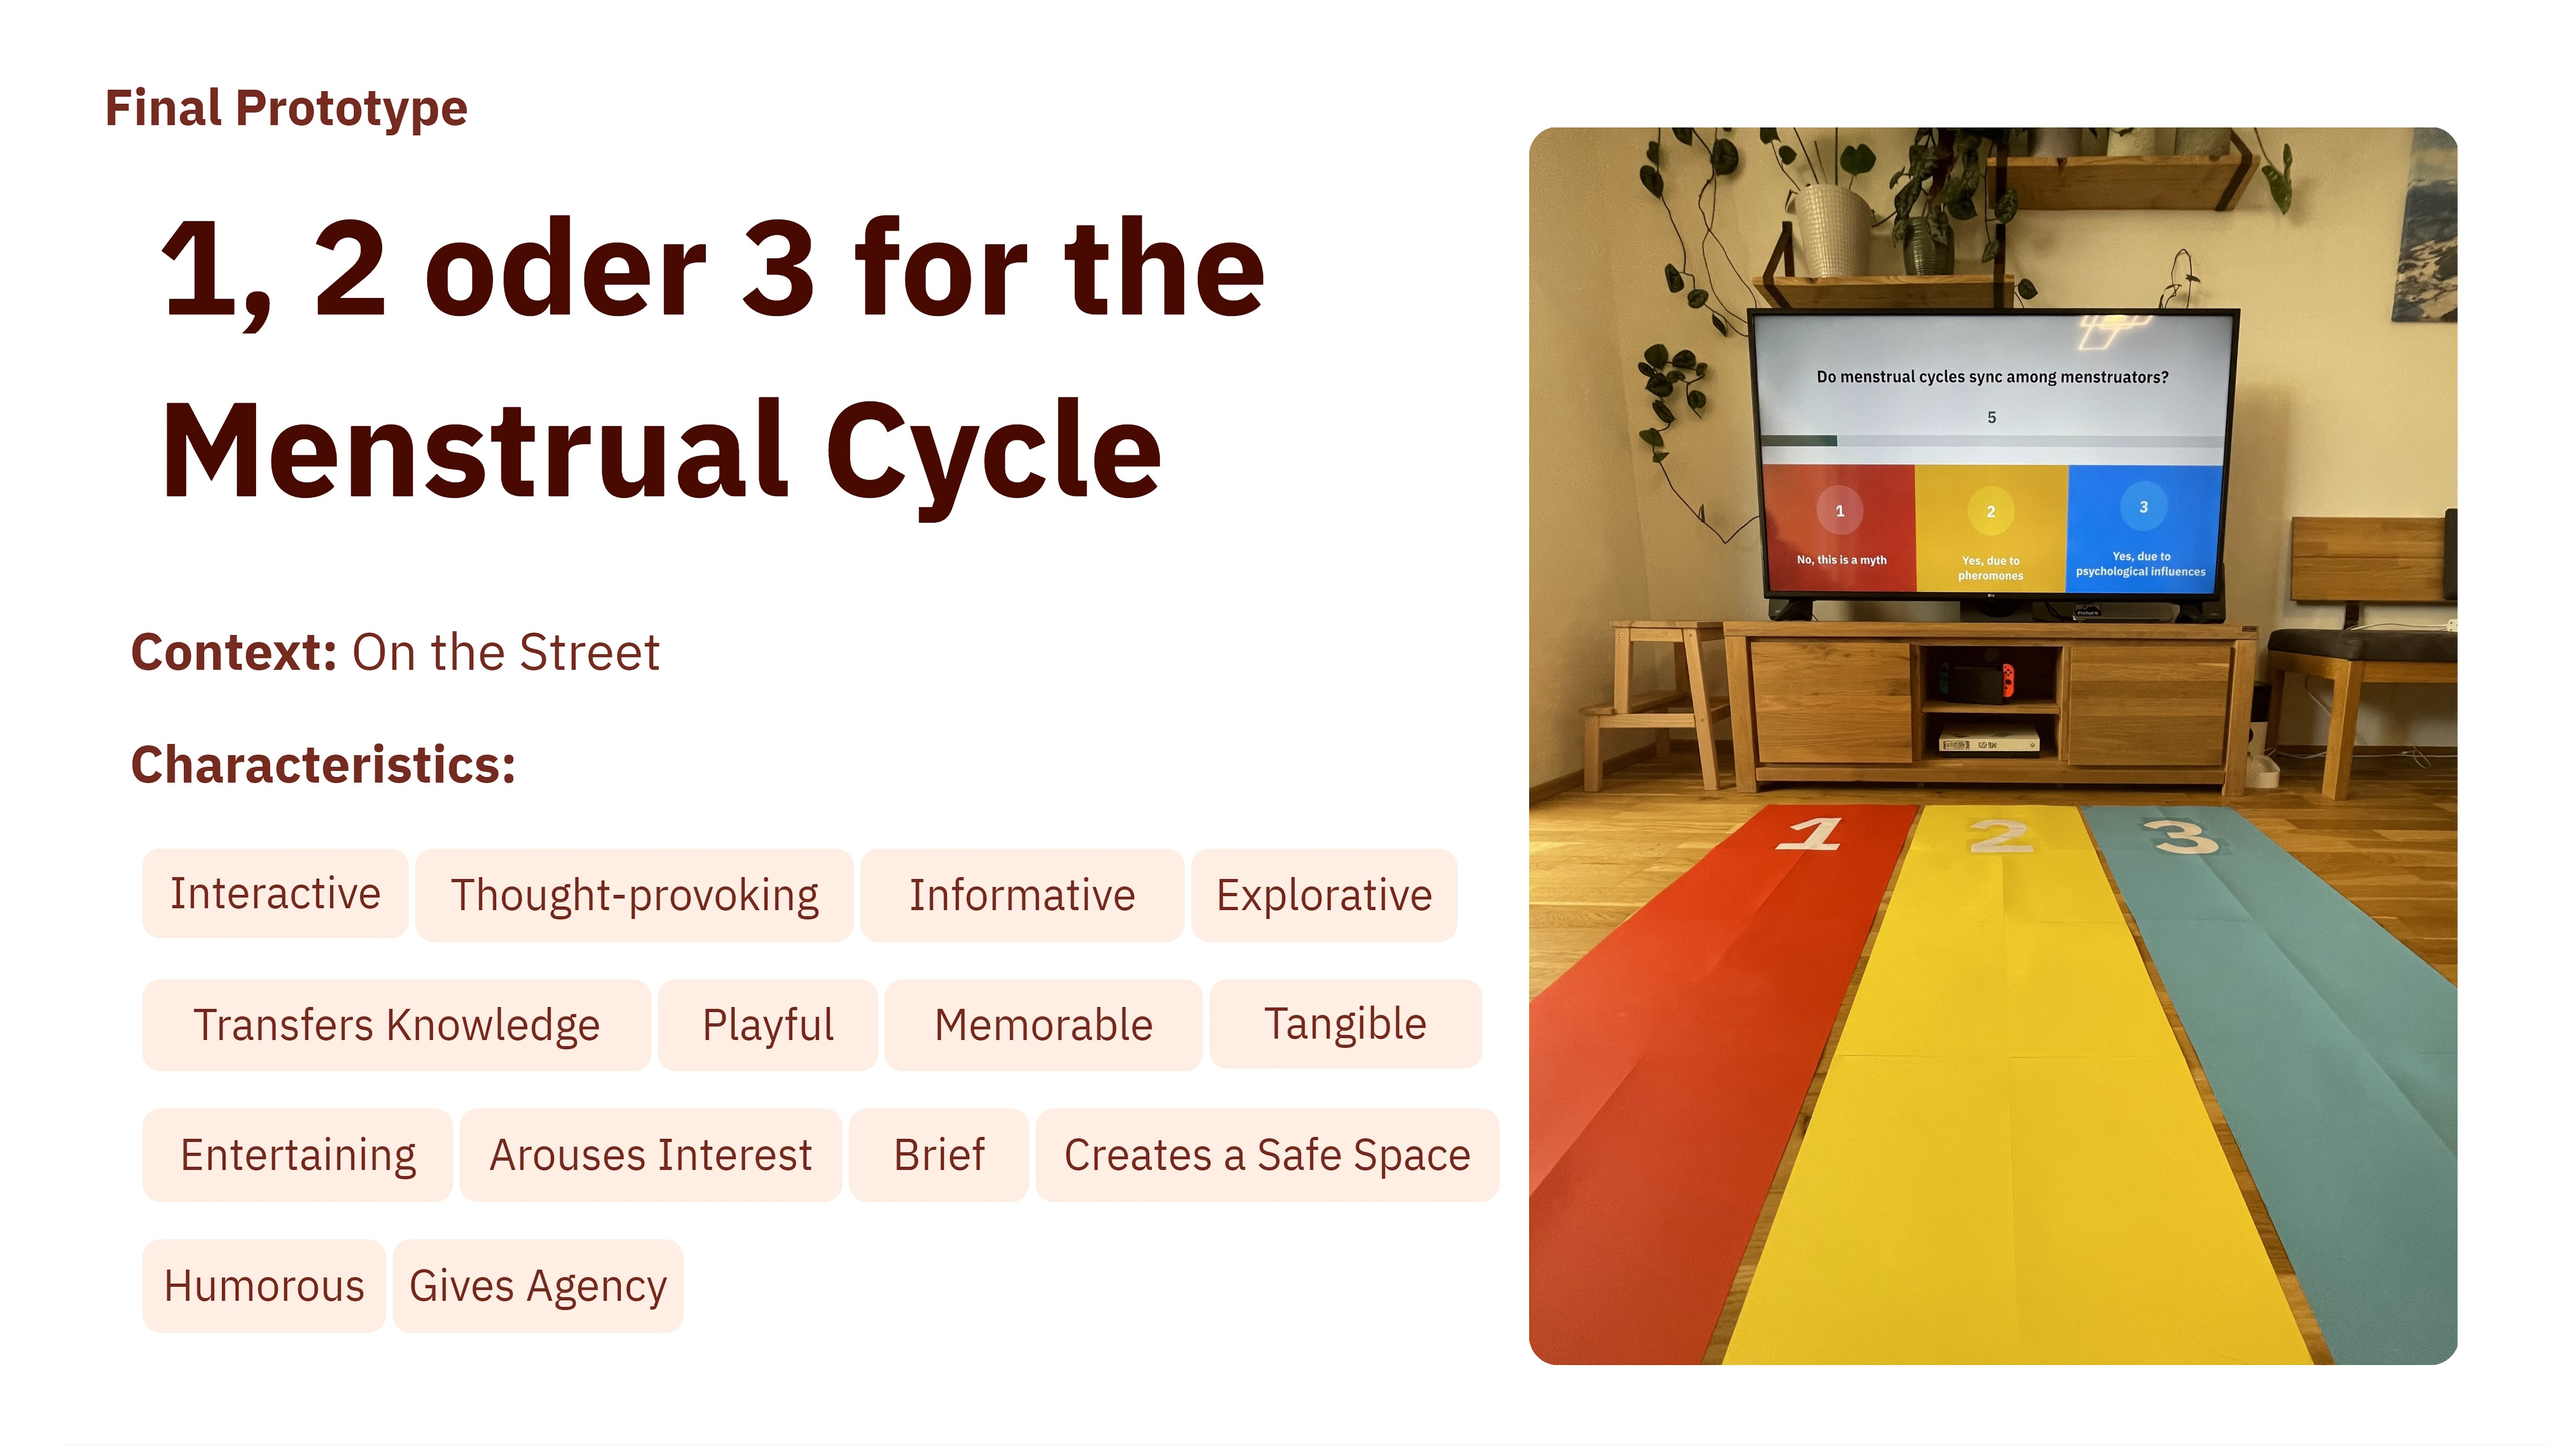
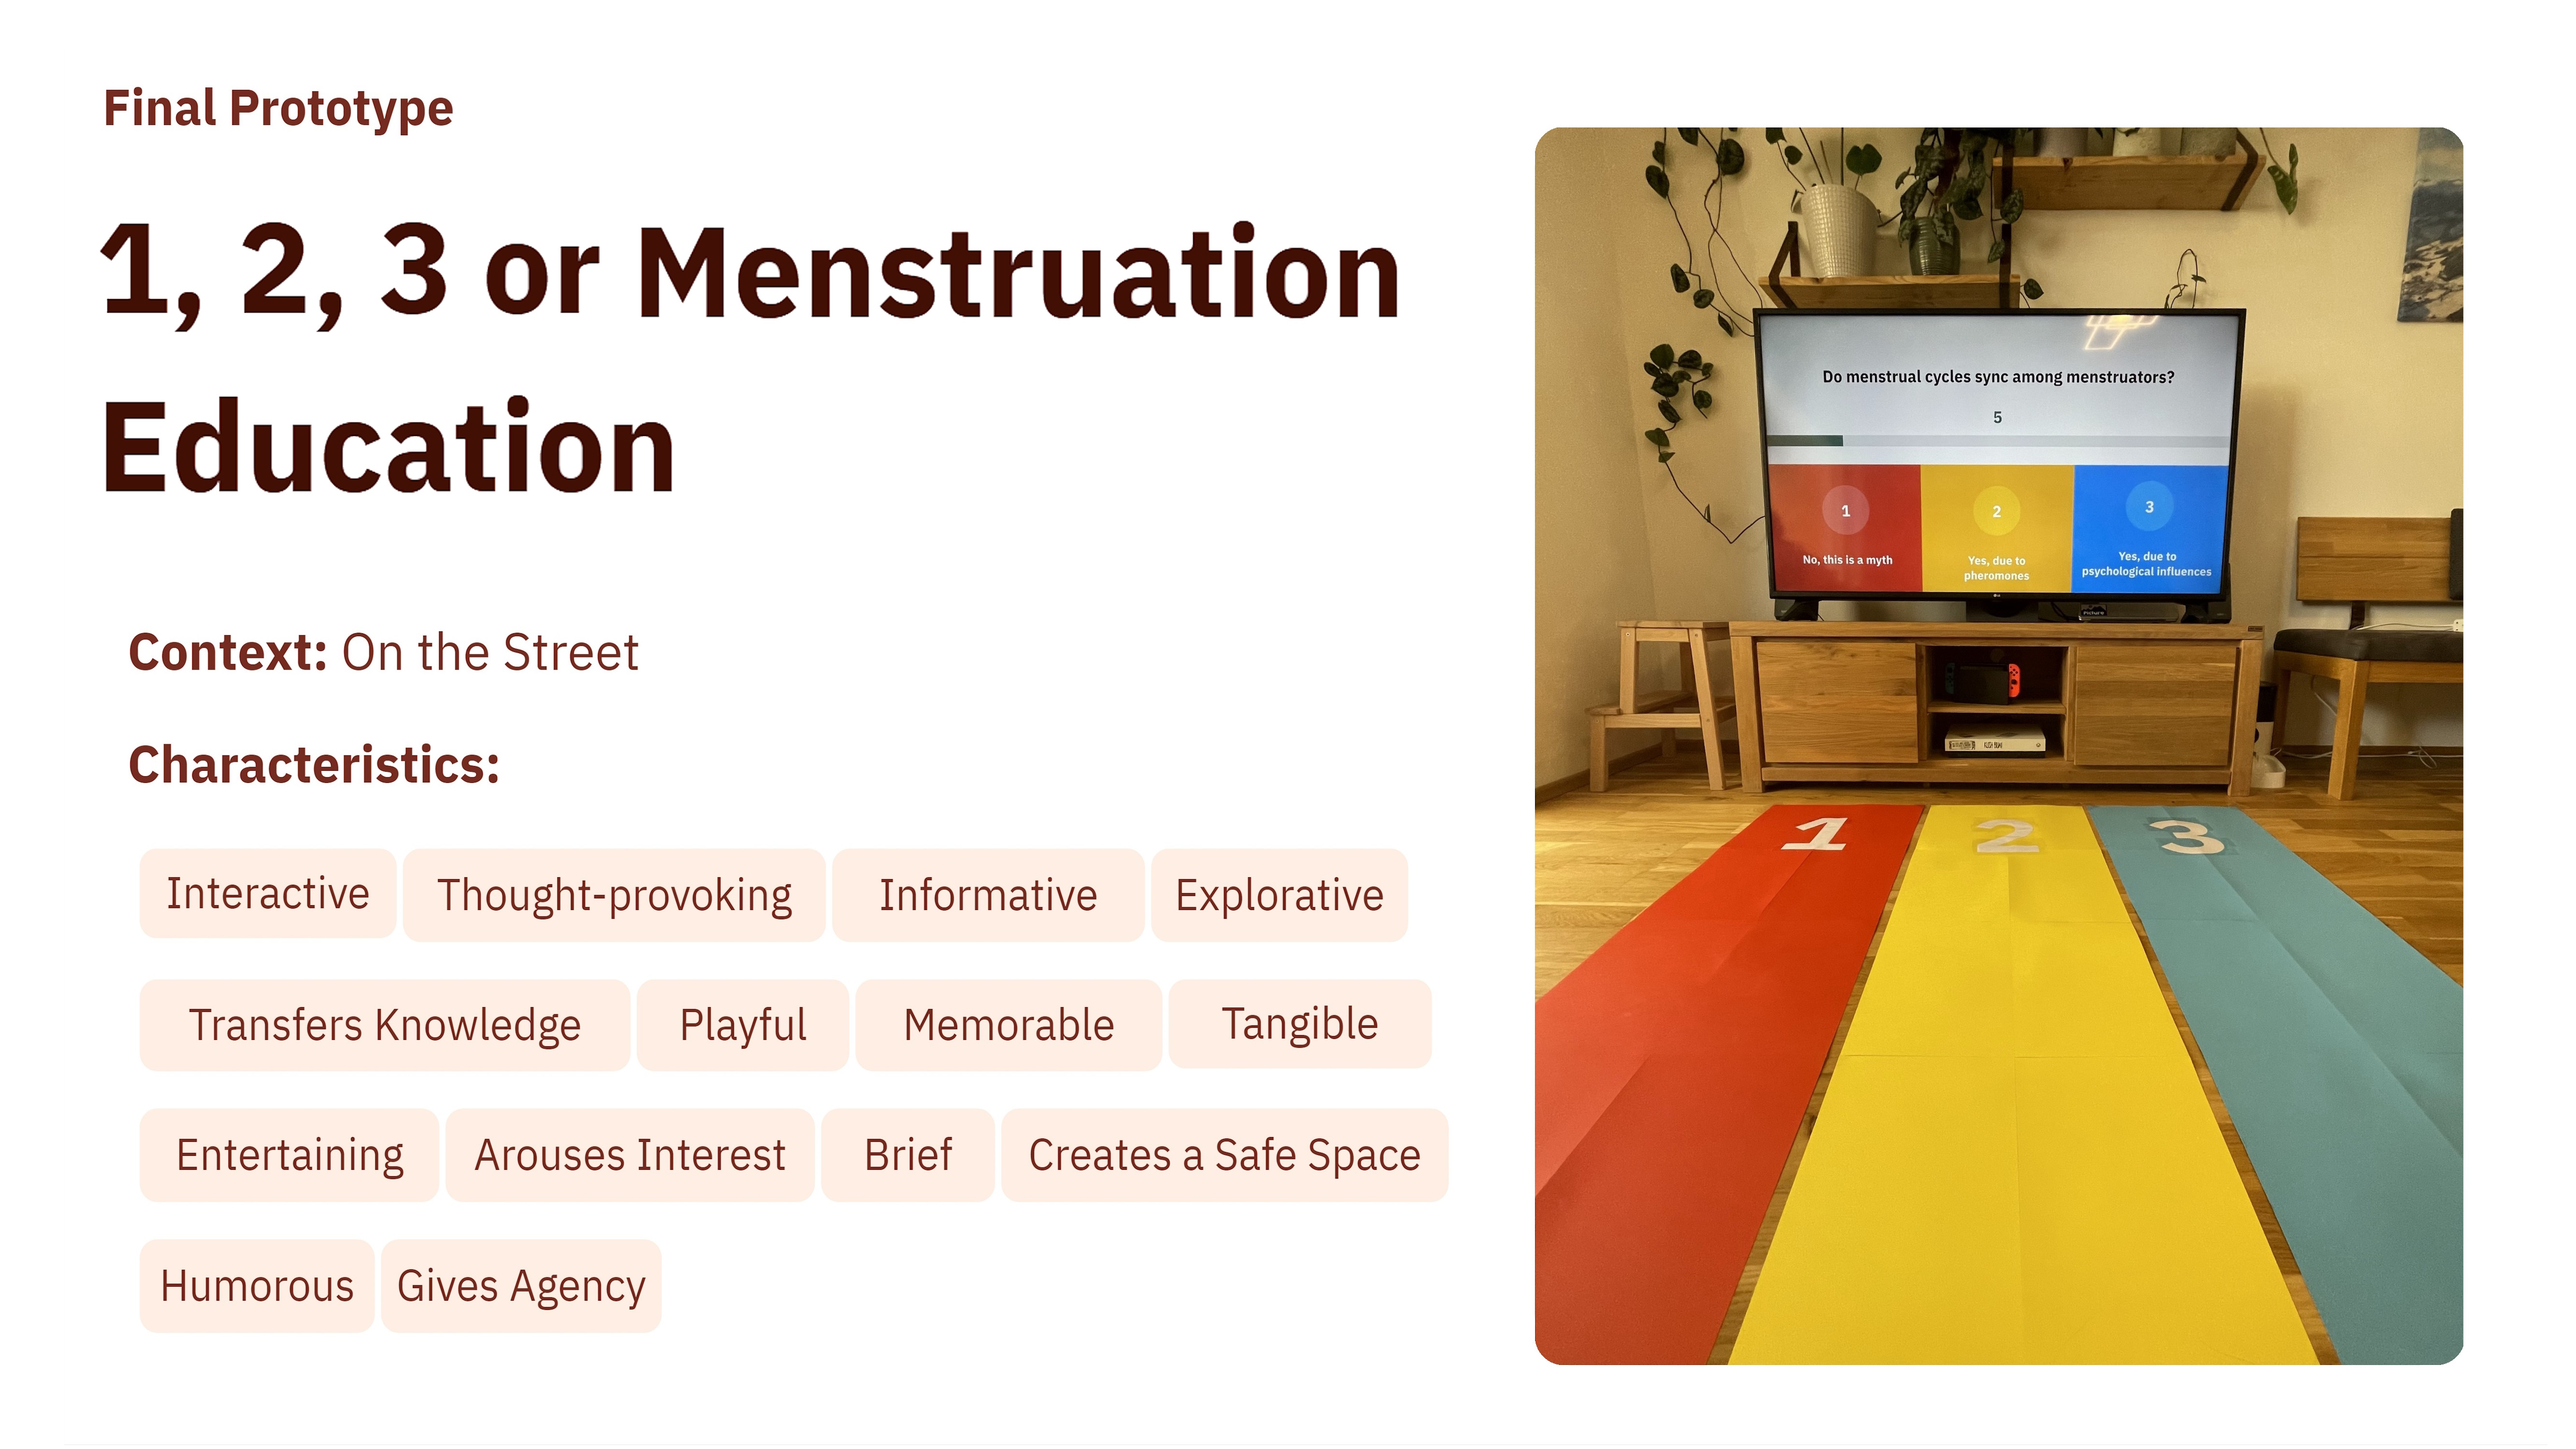
fixed 1 2 3 or menstruation education to prevent copyright issues

diff --git a/1_2_3_or_menstruation_education.html b/1_2_3_or_menstruation_education.html
@@ -34,7 +34,7 @@
   </header>
   <main>
     <div class="page-title-wrapper">
-      <h2 class="page-title">1, 2 oder 3 for Menstruation Education</h2>
+      <h2 class="page-title">1, 2, 3 or Menstruation Education</h2>
     </div>
     <section id="intro-section" class="section-content maxwidth-container">
       <img class="intro-image transition" src="./assets/project_2.png" alt="Project image">
@@ -155,7 +155,7 @@
       <div class="section-image-container">
         <img class="section-image rounded-border" src="./123_assets/lo-fi-prototypes-alt.png" alt="Sketches and lo-fi prototypes" style="margin-bottom: 1.8em;">
       </div>
-      <p class="section-text">In the end, we decided to build a high-fidelity prototype mainly based on "1, 2 oder 3 for Menstruation Education" because it seemed to best fit our design brief and design implications from our research. It also avoided issues found in other low-fidelity prototypes. For example, the menstruation monster was problematic because associating menstruation with something negative, such as monsters, could reinforce the taboo around menstruation, and the menstruation games dispenser likely would have felt discouragingly complicated for users.</p>
+      <p class="section-text">In the end, we decided to build a high-fidelity prototype mainly based on "1, 2, 3 or Menstruation Education" because it seemed to best fit our design brief and design implications from our research. It also avoided issues found in other low-fidelity prototypes. For example, the menstruation monster was problematic because associating menstruation with something negative, such as monsters, could reinforce the taboo around menstruation, and the menstruation games dispenser likely would have felt discouragingly complicated for users.</p>
      </section>
      <section id="final-prototype" class="case-study-section">
       <div class="section-line"></div>

diff --git a/mistoe.html b/mistoe.html
@@ -159,8 +159,8 @@
             <a href="./lexi.html" style="text-decoration: none; color: inherit;"><h3 class="more-projects-image-title">Lexi</h3></a>
           </div>
           <div class="more-projects-image-wrapper">
-            <a href="./1_2_oder_3_for_menstruation_education.html"><img class="more-projects-section-image project-blue" src="./assets/project_2.png" alt="1, 2 oder 3 for Menstruation Education"></a>
-            <a href="./1_2_oder_3_for_menstruation_education.html" style="text-decoration: none; color: inherit;"><h3 class="more-projects-image-title">1, 2 oder 3 for Menstruation Education</h3></a>
+            <a href="./1_2_3_or_menstruation_education.html"><img class="more-projects-section-image project-blue" src="./assets/project_2.png" alt="1, 2, 3 or Menstruation Education"></a>
+            <a href="./1_2_3_or_menstruation_education.html" style="text-decoration: none; color: inherit;"><h3 class="more-projects-image-title">1, 2, 3 or Menstruation Education</h3></a>
           </div>
           <div class="more-projects-image-wrapper">
             <a href="./emi.html"><img class="more-projects-section-image project-pink" src="./assets/project_1.png" alt="Emi"></a>

diff --git a/emi.html b/emi.html
@@ -318,8 +318,8 @@
         <h2 class="section-title">MORE PROJECTS</h2>
         <div class="more-projects-image-container transition">
           <div class="more-projects-image-wrapper">
-            <a href="./1_2_oder_3_for_menstruation_education.html"><img class="more-projects-section-image project-pink" src="./assets/project_2.png" alt="1, 2 oder 3 for Menstruation Education"></a>
-            <a href="./1_2_oder_3_for_menstruation_education.html" style="text-decoration: none; color: inherit;"><h3 class="more-projects-image-title">1, 2 oder 3 for Menstruation Education</h3></a>
+            <a href="./1_2_3_or_menstruation_education.html"><img class="more-projects-section-image project-pink" src="./assets/project_2.png" alt="1, 2, 3 or Menstruation Education"></a>
+            <a href="./1_2_3_or_menstruation_education.html" style="text-decoration: none; color: inherit;"><h3 class="more-projects-image-title">1, 2, 3 or Menstruation Education</h3></a>
           </div>
           <div class="more-projects-image-wrapper">
             <a href="./mistoe.html"><img class="more-projects-section-image project-blue" src="./assets/project_3.png" alt="MisToe"></a>

diff --git a/shared_achievements.html b/shared_achievements.html
@@ -193,8 +193,8 @@
         <h2 class="section-title">MORE PROJECTS</h2>
         <div class="more-projects-image-container transition">
           <div class="more-projects-image-wrapper">
-            <a href="./1_2_oder_3_for_menstruation_education.html"><img class="more-projects-section-image project-pink" src="./assets/project_2.png" alt="1, 2 oder 3 for Menstruation Education"></a>
-            <a href="./1_2_oder_3_for_menstruation_education.html" style="text-decoration: none; color: inherit;"><h3 class="more-projects-image-title">1, 2 oder 3 for Menstruation Education</h3></a>
+            <a href="./1_2_3_or_menstruation_education.html"><img class="more-projects-section-image project-pink" src="./assets/project_2.png" alt="1, 2, 3 or Menstruation Education"></a>
+            <a href="./1_2_3_or_menstruation_education.html" style="text-decoration: none; color: inherit;"><h3 class="more-projects-image-title">1, 2, 3 or Menstruation Education</h3></a>
           </div>
           <div class="more-projects-image-wrapper">
             <a href="./lexi.html"><img class="more-projects-section-image project-blue" src="./assets/project_5.png" alt="Lexi"></a>

diff --git a/collabart.html b/collabart.html
@@ -99,7 +99,7 @@
           </div>
           <div class="more-projects-image-wrapper">
             <a href="./1_2_oder_3_for_menstruation_education.html"><img class="more-projects-section-image project-blue" src="./assets/project_2.png" alt="Project 2"></a>
-            <a href="./1_2_oder_3_for_menstruation_education.html" style="text-decoration: none; color: inherit;"><h3 class="more-projects-image-title">1, 2 oder 3 for Menstruation Education</h3></a>
+            <a href="./1_2_oder_3_for_menstruation_education.html" style="text-decoration: none; color: inherit;"><h3 class="more-projects-image-title">1, 2, 3 or Menstruation Education</h3></a>
           </div>
           <div class="more-projects-image-wrapper">
             <a href="./mistoe.html"><img class="more-projects-section-image project-periwinkle" src="./assets/project_3.png" alt="MisToe"></a>

diff --git a/index.html b/index.html
@@ -145,10 +145,10 @@
               </div>
             </article>
           </a>
-          <a class="project-item non-decorated-link transition" href="./1_2_oder_3_for_menstruation_education.html">
+          <a class="project-item non-decorated-link transition" href="./1_2_3_or_menstruation_education.html">
             <article>
               <img class="project-card-image project-pink" src="./assets/project_2.png" alt="Second project image">
-              <h3>1, 2 oder 3 for Menstruation Education</h3>
+              <h3>1, 2, 3 or Menstruation Education</h3>
               <p class="project-description">Prototyped a playful, educational system to support menstrual activists in making period education more interactive and accessible.</p>
               <div class="tags-width tags-container">
                 <div class="tag-pink">
